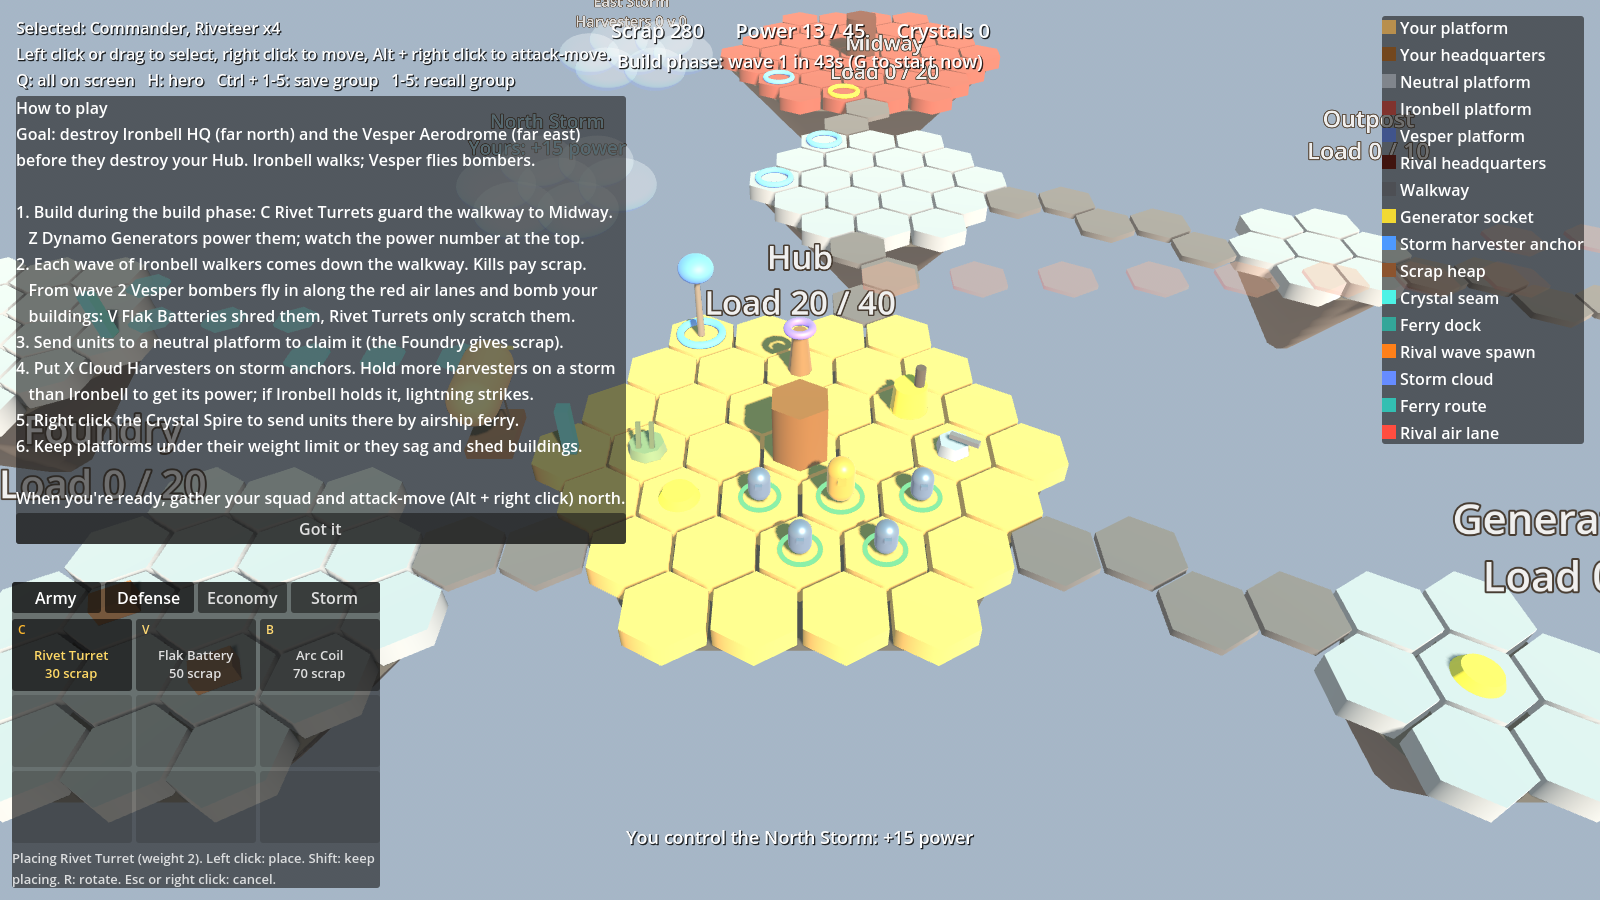
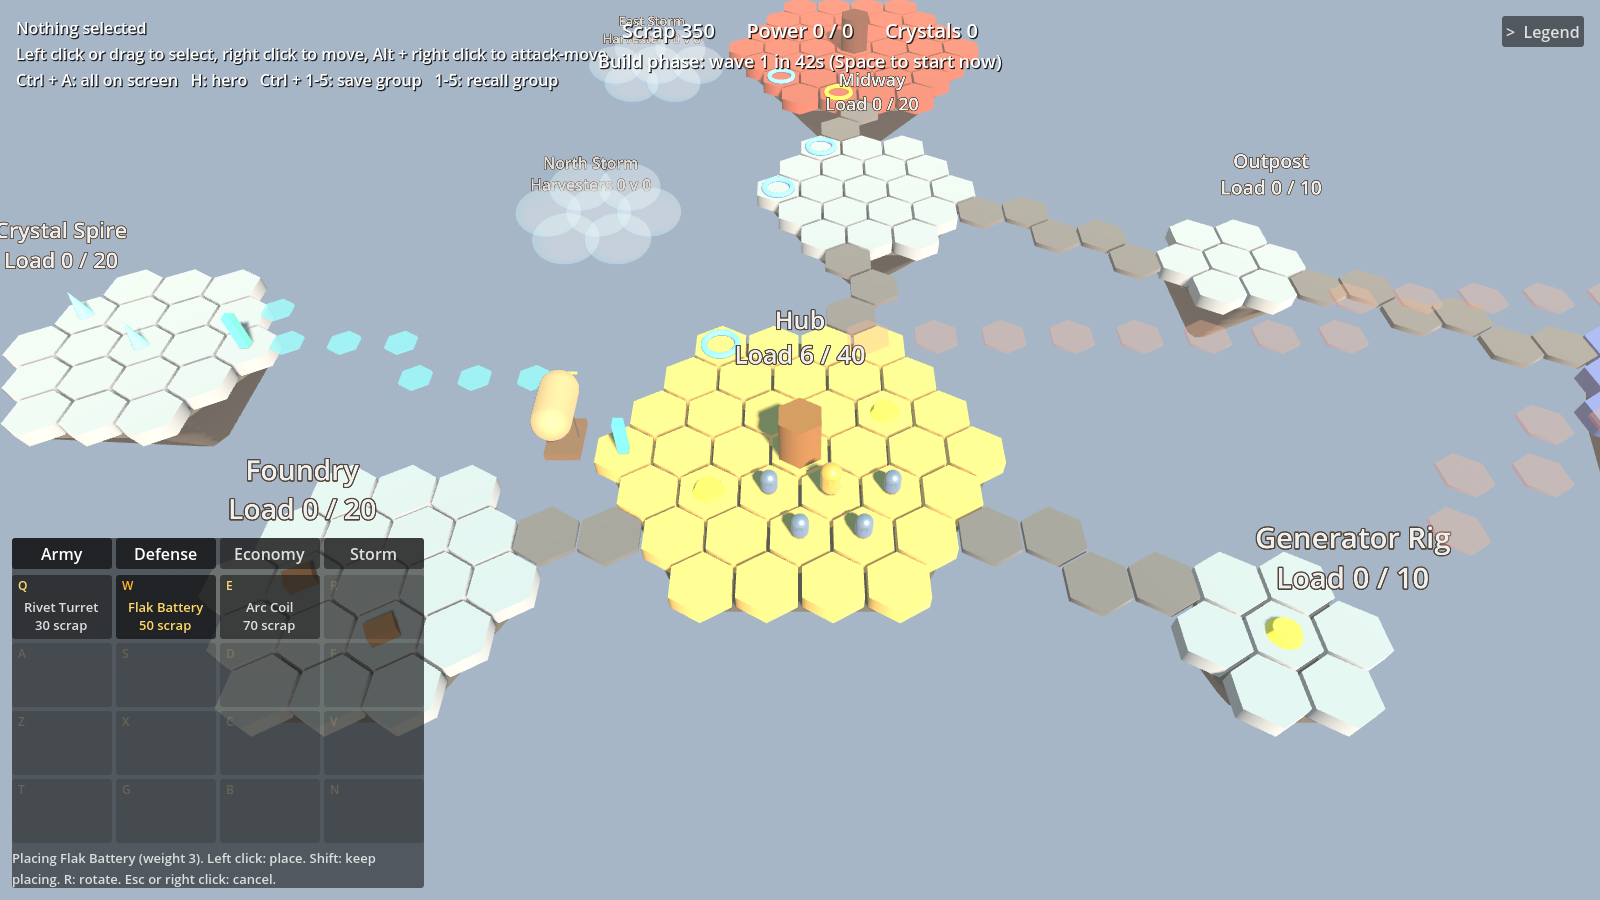
Turn the build menu into a 4 x 4 RTS command grid and fold up the legend
The grid keys match their spots on the keyboard (Q W E R / A S D F /
Z X C V / T G B N) and their meaning follows the open tab. W A S D now pan
the camera only while Shift is held; arrow keys and screen edges still
pan. Select all on screen moves to Ctrl + A and starting a wave early to
Space. The tile legend folds away with a click on its title or L.

Claude-Session: https://claude.ai/code/session_01SsaPLPzmr7pCaih9tcXGGm

diff --git a/README.md b/README.md
@@ -16,7 +16,7 @@ Weight matters: buildings and units both add to a platform's load. Over capacity
 
 Park units on a neutral platform to claim it (it's contested while both sides have units there), then build on it. Ironbell raiding parties march along walkways, claim platforms on the way, and attack whatever they meet. If you wall off a walkway with buildings they smash through the wall instead of stopping.
 
-The game runs in waves. You get 45 seconds to build before wave 1 (25 seconds before later waves), then Ironbell sends a growing party of walkers; clear it to start the next build phase. Turrets, units and both headquarters shoot automatically, and each kill pays 15 scrap. You lose if your Hub headquarters falls and win once both rival headquarters are destroyed; press Enter on the end screen to play again. Press Y to train more Riveteers at the Hub (30 scrap each). If your Commander falls, they return to the Hub after 15 seconds. A how-to-play panel is shown until the first wave starts.
+The game runs in waves. You get 45 seconds to build before wave 1 (25 seconds before later waves), then Ironbell sends a growing party of walkers; clear it to start the next build phase. Turrets, units and both headquarters shoot automatically, and each kill pays 15 scrap. You lose if your Hub headquarters falls and win once both rival headquarters are destroyed; press Enter on the end screen to play again. Use the Army tab (Q) to train more Riveteers at the Hub (30 scrap each). If your Commander falls, they return to the Hub after 15 seconds. A how-to-play panel is shown until the first wave starts.
 
 There are two rival corporations. Ironbell Consolidated walks: its walkers come down the walkway from Midway. Vesper Aeronautics flies: from wave 2 its bomber airships leave the Vesper Aerodrome (far east), fly the red air lanes, and bomb your buildings or your Hub. Bombers ignore your units, and only anti-air weapons can hit them. Flak Batteries are built for this, Rivet Turrets only scratch them, and the Commander and headquarters guns can shoot them too. Arc Coils and Riveteers can't. Reach the Aerodrome on foot over the long walkway from the Outpost. When one rival's headquarters falls, that rival stops attacking.
 
@@ -30,23 +30,24 @@ To change the map, edit `scripts/world/level_layout.gd`: platforms, features, wa
 
 | Action | Default |
 | --- | --- |
-| Pan camera | WASD, arrow keys, or mouse at the screen edge |
+| Pan camera | Arrow keys, Shift + W A S D, or mouse at the screen edge |
 | Rotate camera | Hold middle mouse and drag |
 | Zoom | Scroll wheel |
 | Jump to Hub | Home |
 | Select | Left click, or drag a box; Shift adds to the selection |
 | Move | Right click on a platform |
 | Attack-move | Alt + right click |
-| Select all units on screen | Q |
+| Select all units on screen | Ctrl + A |
 | Select hero | H (double-tap to move the camera to them) |
 | Control groups | Ctrl + 1 to 5 saves, 1 to 5 selects, double-tap to move the camera |
-| Build menu | Bottom left: click a tab (Army, Defense, Economy, Storm), then a building. Tab cycles the tabs. Hover a button for its stats |
-| Build | Z Dynamo Generator, X Cloud Harvester, C Rivet Turret, V Flak Battery, B Arc Coil |
+| Build menu | Bottom left: tabs (Army, Defense, Economy, Storm) over a 4 x 4 command grid. Tab cycles the tabs. The grid keys match their spots on the keyboard: Q W E R / A S D F / Z X C V / T G B N, and what each does depends on the tab |
+| Build | Defense: Q Rivet Turret, W Flak Battery, E Arc Coil. Economy: Q Dynamo Generator, W Walkway. Storm: Q Cloud Harvester |
 | While placing | Left click places, Shift keeps placing, R rotates, Esc or right click cancels |
 | Demolish | Delete over a building (refunds 75%) |
-| Build a walkway | T, click a tile on your platform, then a tile on another platform (15 scrap per tile) |
-| Train a Riveteer | Y (30 scrap, 5 seconds) |
-| Start the next wave early | G |
+| Build a walkway | Economy tab, W, then click a tile on your platform, then a tile on another platform (15 scrap per tile) |
+| Train a Riveteer | Army tab, Q (30 scrap, 5 seconds) |
+| Start the next wave early | Space |
+| Show or hide the legend | L, or click its title |
 | Pause | P |
 | Game speed | F1 normal, F2 double, F3 triple |
 
